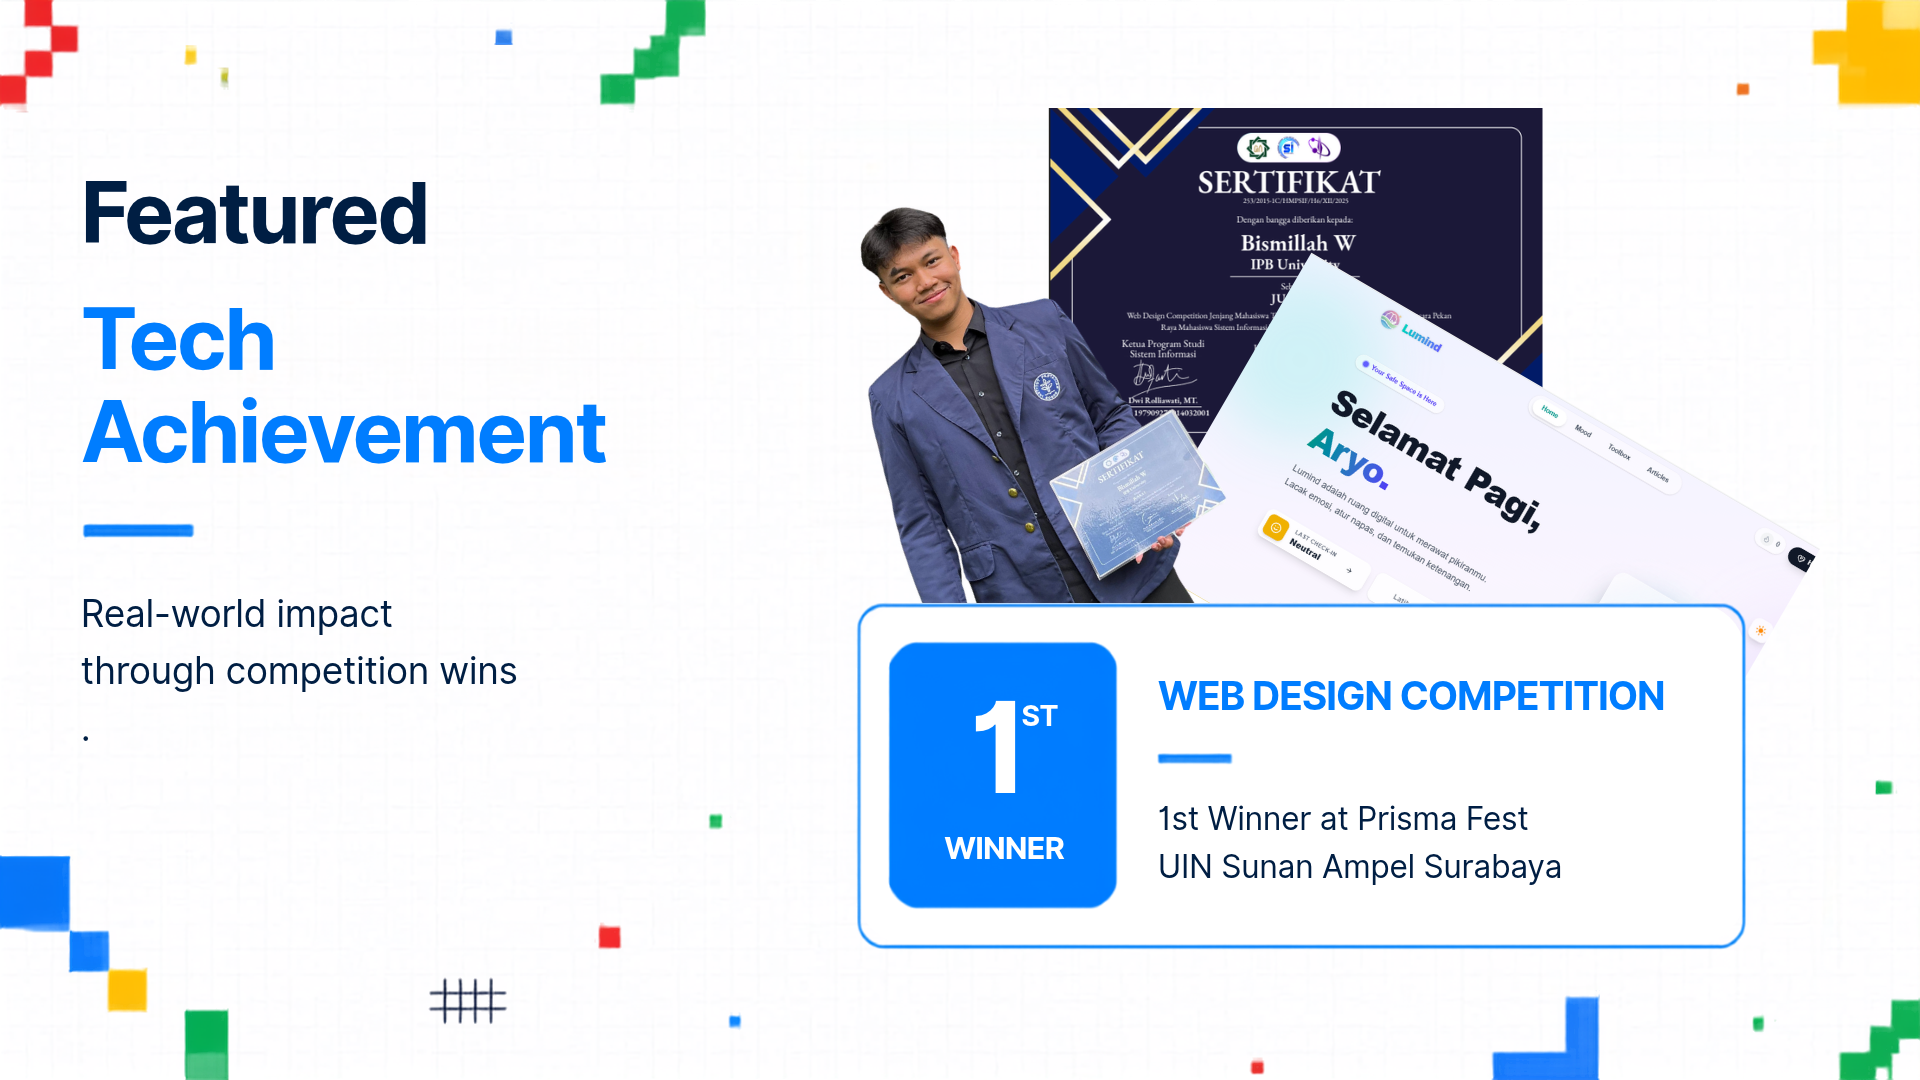
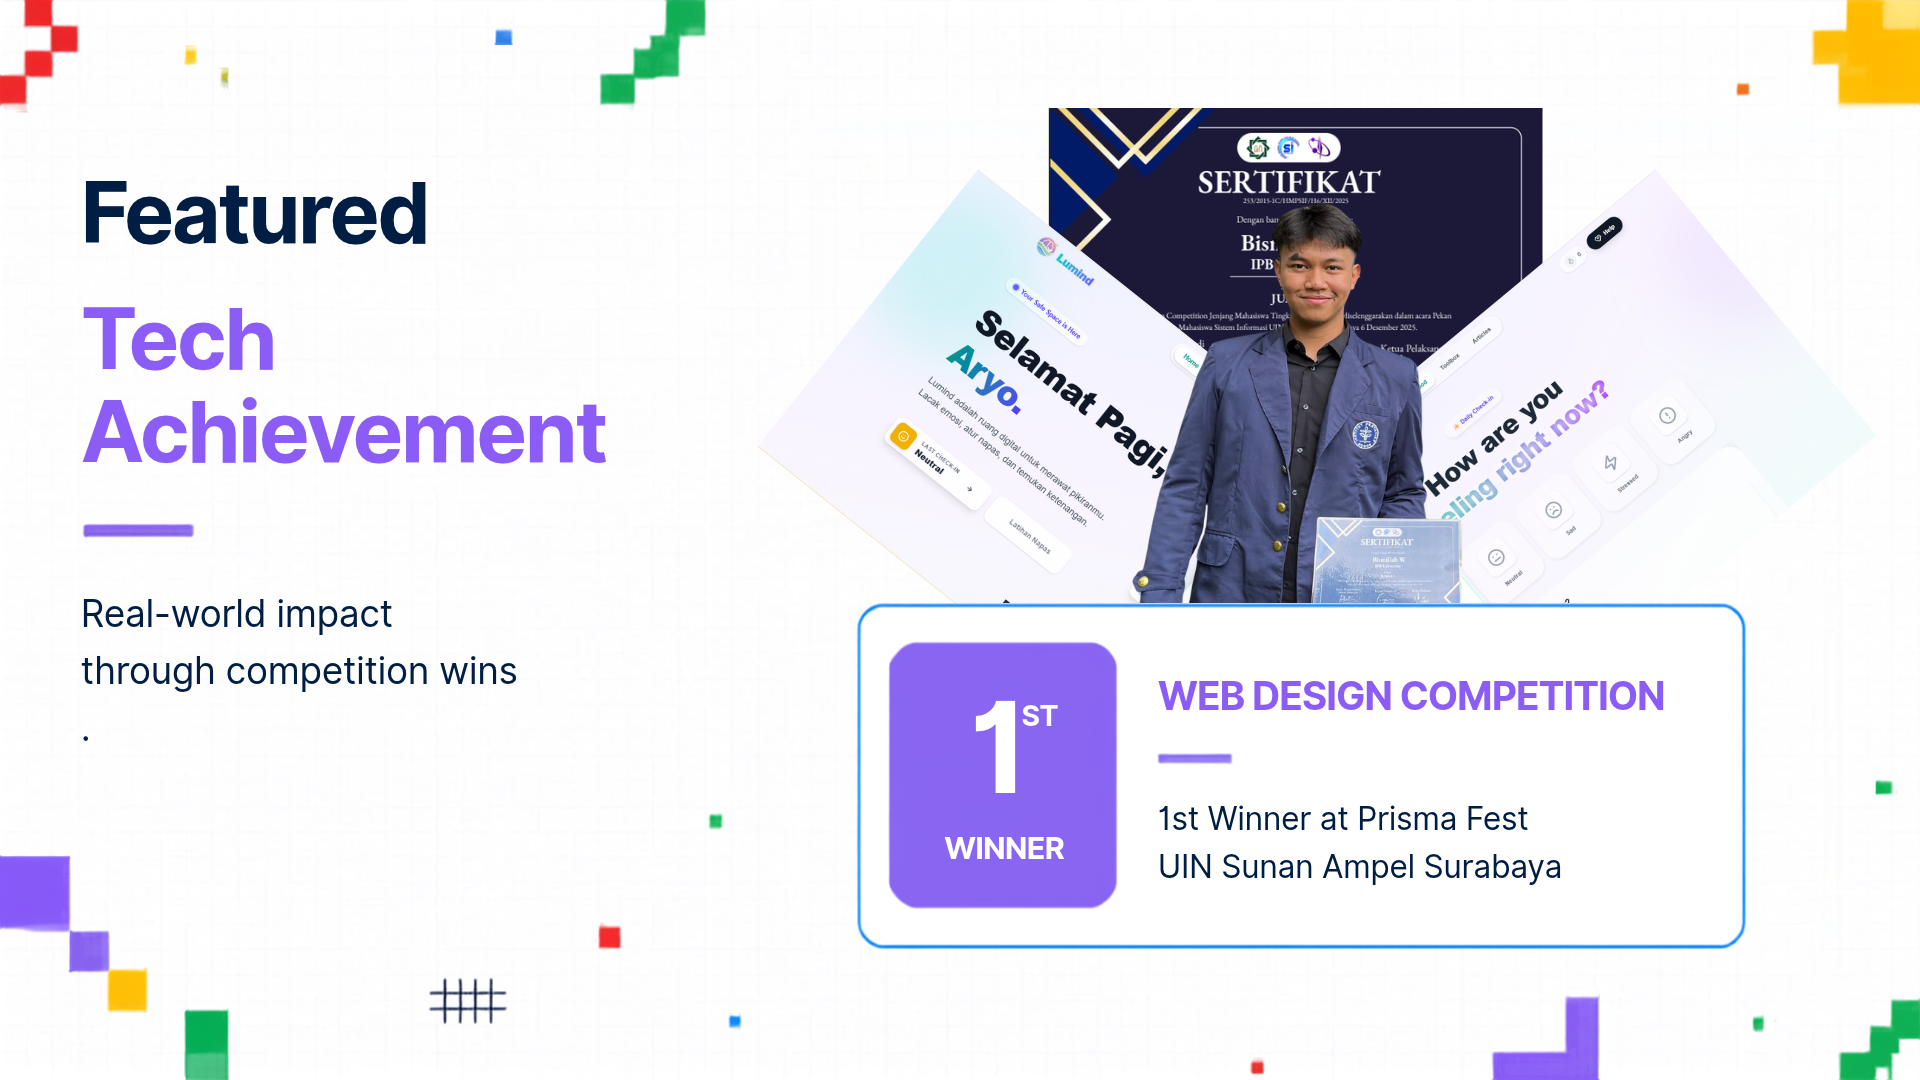
fix: fix the responsiveness on the mobile device

diff --git a/src/components/sections/HeroSection.tsx b/src/components/sections/HeroSection.tsx
@@ -137,7 +137,7 @@ export function HeroSection() {
           </div>
 
           {/* 3. RIGHT COLUMN (4 Cols): Open Corner-Bracket HUD Telemetry Blocks */}
-          <div className="z-20 flex flex-col items-end justify-center pb-8 lg:col-span-4 lg:pb-0">
+          <div className="z-20 flex flex-col items-center sm:items-end justify-center pb-8 lg:col-span-4 lg:pb-0">
             <div className="hero-hud-reveal w-full max-w-[300px] space-y-5">
               {/* Block 1: CURRENTLY */}
               <OpenHudCorners>

diff --git a/src/components/sections/GithubActivitySection.tsx b/src/components/sections/GithubActivitySection.tsx
@@ -247,7 +247,7 @@ export function GithubActivitySection() {
         <div
           role="group"
           aria-label="Filter GitHub contributions by year"
-          className="flex items-center gap-1 border border-border-subtle bg-bg-elevated p-1"
+          className="ml-auto flex w-fit justify-end items-center gap-1 border border-border-subtle bg-bg-elevated p-1"
         >
           {githubTelemetry.availableYears.map((year) => {
             const isActive = selectedYear === year;

diff --git a/src/app/globals.css b/src/app/globals.css
@@ -126,6 +126,7 @@ body {
   color: var(--text-primary);
   font-family: var(--font-sans);
   overflow-x: clip;
+  scroll-behavior: smooth;
 }
 
 ::selection {
@@ -165,6 +166,7 @@ body {
 }
 
 @media (hover: hover) and (pointer: fine) {
+
   .group:hover .arrow-drift,
   .hover-arrow:hover .arrow-drift {
     transform: translate(3px, -3px);
